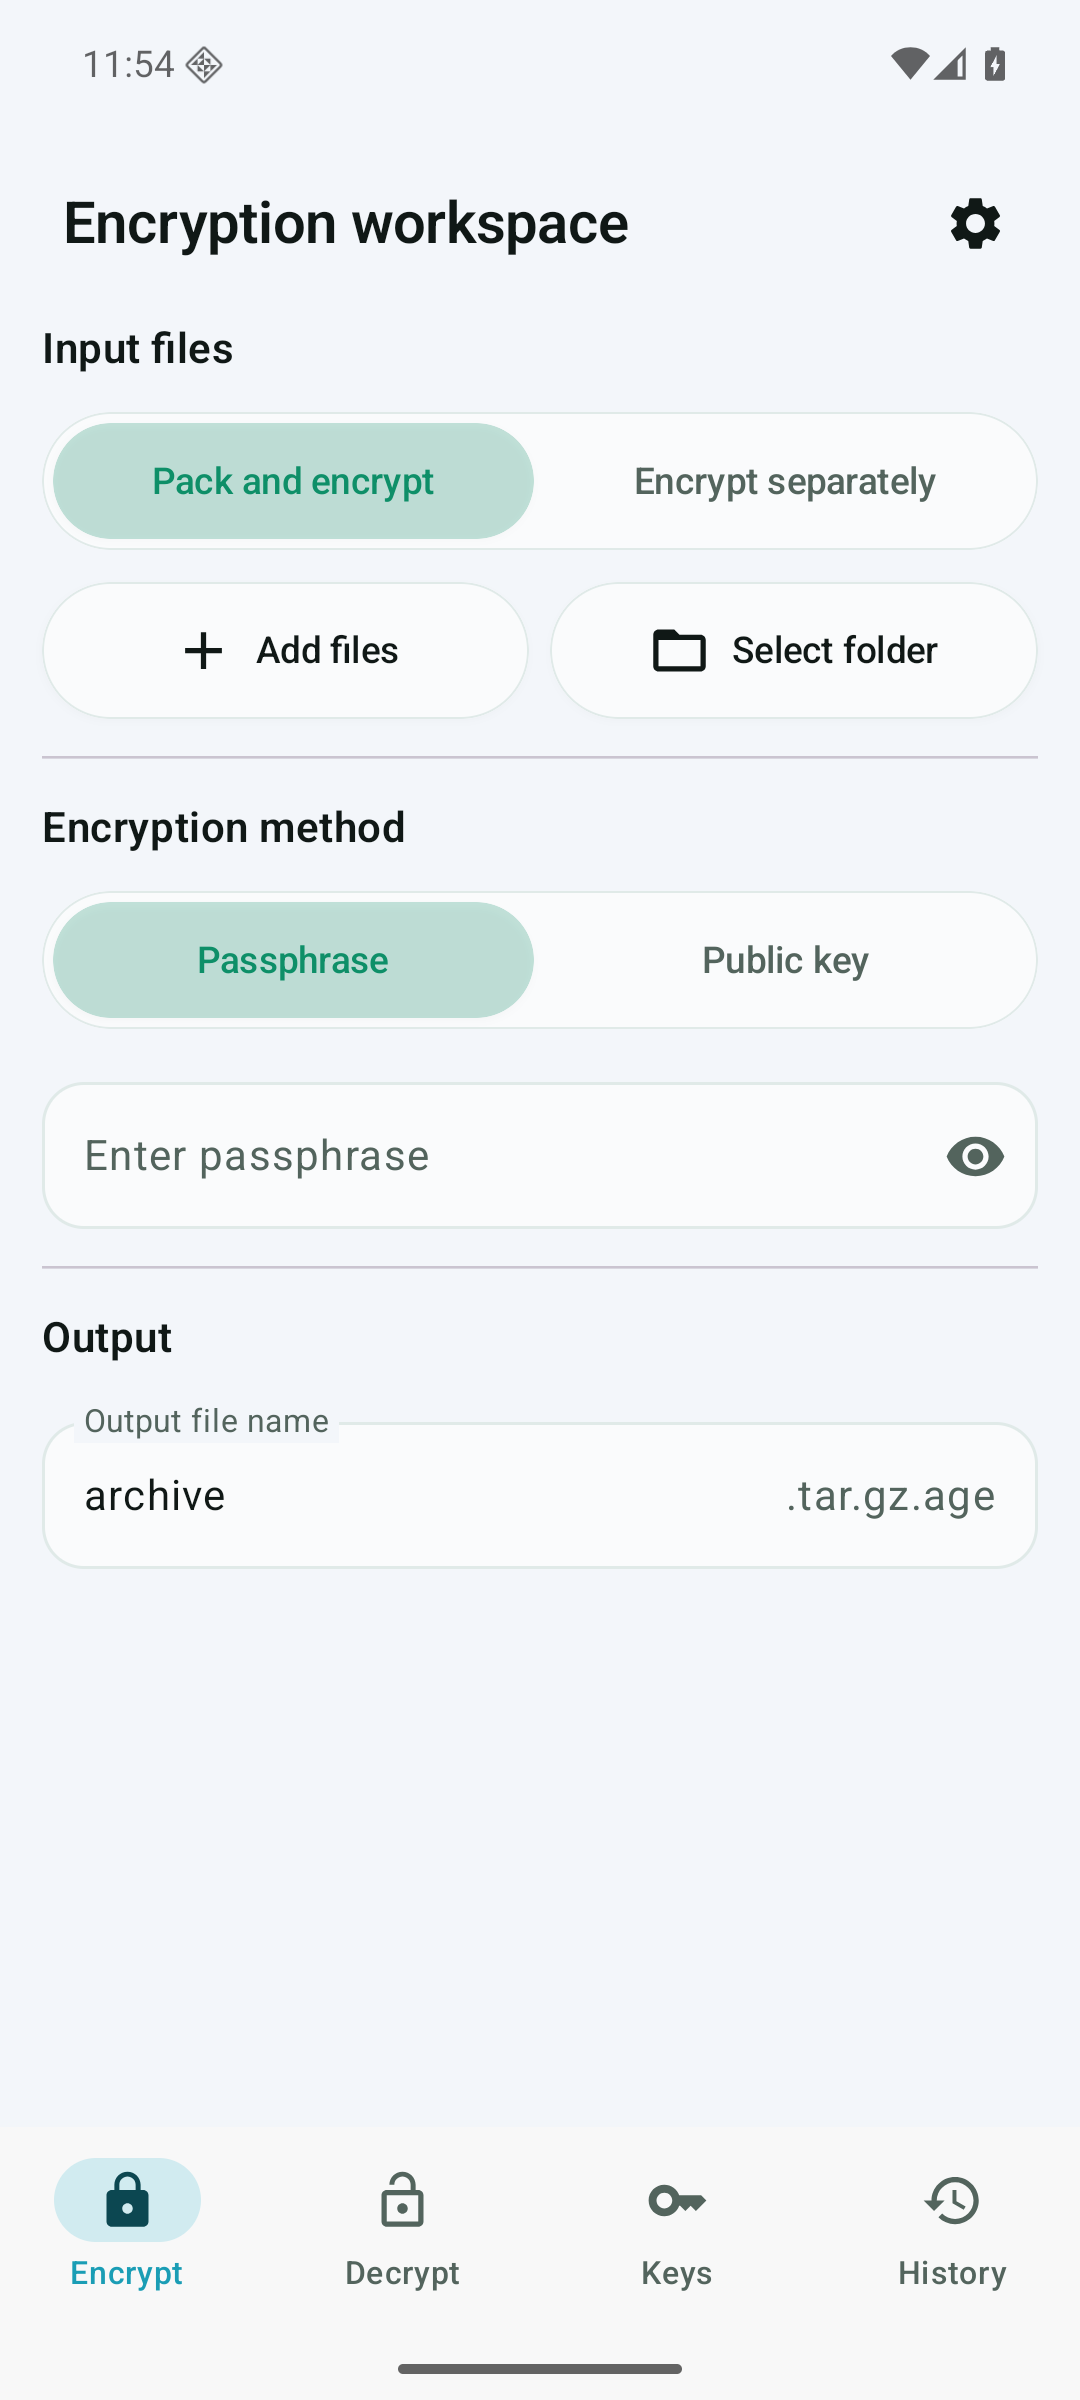
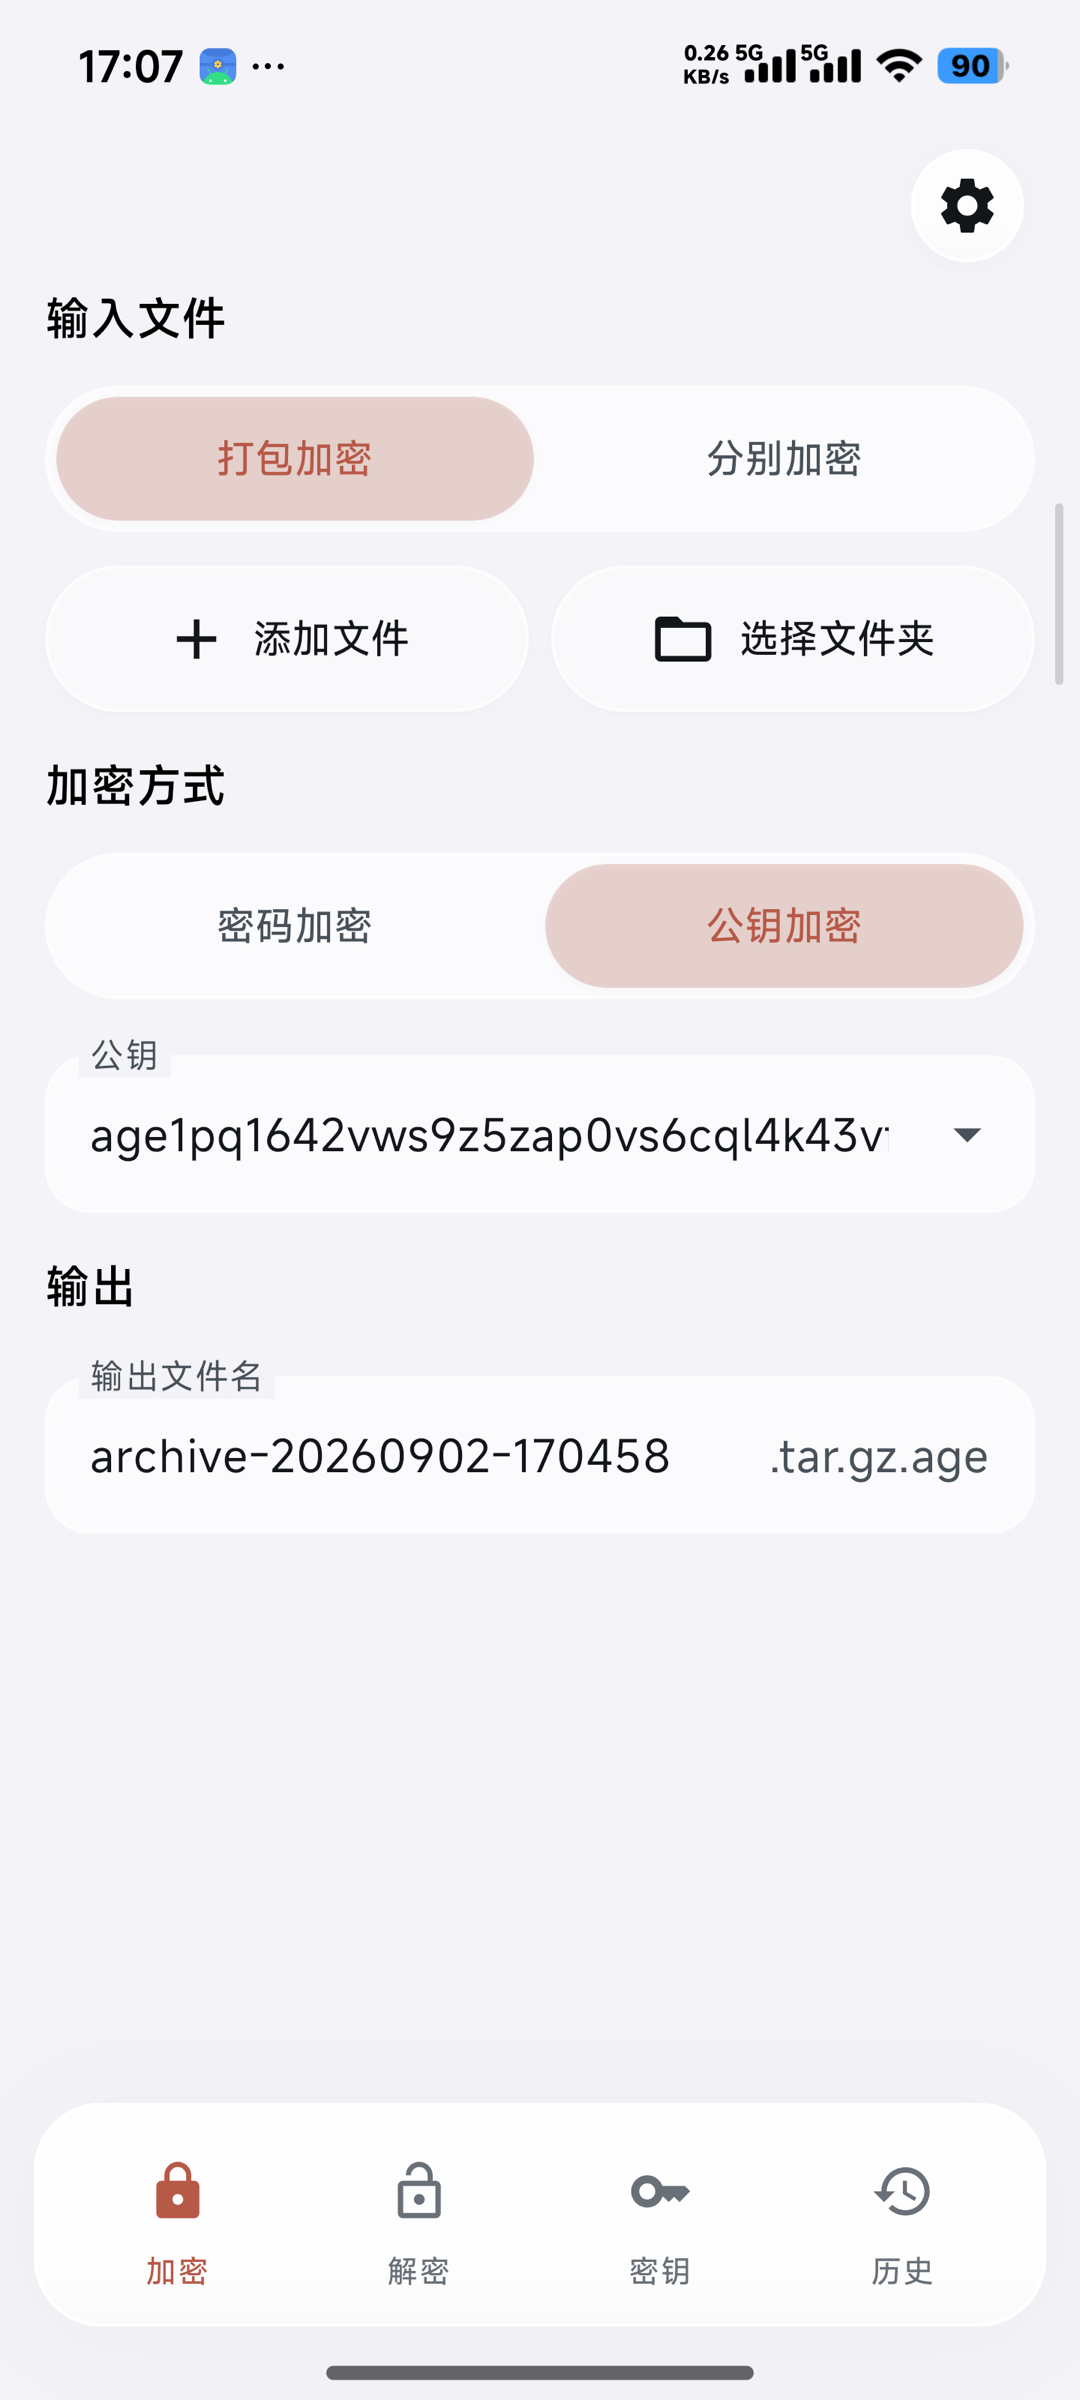
release: prepare 5.0.2

diff --git a/pages/index.html b/pages/index.html
@@ -1015,7 +1015,7 @@ See LICENSE for details.
           <button class="language-button" type="button" data-lang="en" aria-pressed="true">EN</button>
           <button class="language-button" type="button" data-lang="zh" aria-pressed="false">中文</button>
         </div>
-        <a class="button primary" href="https://github.com/vikiea/age_android/releases/download/v5.0.1/app-universal-release.apk" data-i18n="nav.primary">Download APK</a>
+        <a class="button primary" href="https://github.com/vikiea/age_android/releases/download/v5.0.2/app-universal-release.apk" data-i18n="nav.primary">Download APK</a>
       </div>
     </div>
   </header>
@@ -1024,16 +1024,16 @@ See LICENSE for details.
     <section class="hero" aria-labelledby="hero-title">
       <div class="hero-inner">
         <div class="hero-copy">
-          <p class="eyebrow"><span class="status-dot" aria-hidden="true">&nbsp;</span><span data-i18n="hero.eyebrow">Latest public release v5.0.1</span></p>
+          <p class="eyebrow"><span class="status-dot" aria-hidden="true">&nbsp;</span><span data-i18n="hero.eyebrow">Latest public release v5.0.2</span></p>
           <h1 id="hero-title" data-i18n="hero.title">Local-first age encryption for Android.</h1>
           <p class="hero-lede" data-i18n="hero.lede">Encrypt folders as visible tree units, decrypt archives back into their original structure, manage age keys, and keep every file operation on your Android device.</p>
           <div class="hero-actions">
-            <a class="button green" href="https://github.com/vikiea/age_android/releases/download/v5.0.1/app-universal-release.apk" data-i18n="hero.download">Download Universal APK</a>
+            <a class="button green" href="https://github.com/vikiea/age_android/releases/download/v5.0.2/app-universal-release.apk" data-i18n="hero.download">Download Universal APK</a>
             <a class="button secondary" href="#screenshots" data-i18n="hero.secondary">View the app</a>
           </div>
           <div class="hero-meta" aria-label="Highlights">
             <div class="meta-card">
-              <strong>v5.0.1</strong>
+              <strong>v5.0.2</strong>
               <span data-i18n="hero.meta.release">Current release</span>
             </div>
             <div class="meta-card">
@@ -1207,23 +1207,23 @@ See LICENSE for details.
           <p data-i18n="download.body">Universal is the easiest choice for most users. ABI-specific builds are smaller and match the device architecture directly.</p>
         </div>
         <div class="download-list">
-          <a class="download-option" href="https://github.com/vikiea/age_android/releases/download/v5.0.1/app-universal-release.apk">
+          <a class="download-option" href="https://github.com/vikiea/age_android/releases/download/v5.0.2/app-universal-release.apk">
             <strong data-i18n="download.universal">Universal APK</strong>
-            <span class="artifact-meta" title="SHA-256 8f5f8994578a2c440a4d2e97844bb234ee60737aec2e3510332b5c0dd1ee36f0">16.5 MiB · SHA-256 8f5f…36f0</span>
+            <span class="artifact-meta" title="SHA-256 0b0bc6c34c6812e1ba54246e3b7620f8b74eb48b7cb200a604868193fde42e23">16.4 MiB · SHA-256 0b0b…2e23</span>
           </a>
-          <a class="download-option" href="https://github.com/vikiea/age_android/releases/download/v5.0.1/app-arm64-v8a-release.apk">
+          <a class="download-option" href="https://github.com/vikiea/age_android/releases/download/v5.0.2/app-arm64-v8a-release.apk">
             <strong data-i18n="download.arm64">arm64-v8a APK</strong>
-            <span class="artifact-meta" title="SHA-256 8c24b5ef969bb1bfd1a3af8097d159ea32f5552268f414e41246cc320311b65b">6.3 MiB · SHA-256 8c24…b65b</span>
+            <span class="artifact-meta" title="SHA-256 f30b51f5fa9ce2c3643dc5e79c4a604f116aef2685e3025c00b855a617df1502">6.2 MiB · SHA-256 f30b…1502</span>
           </a>
-          <a class="download-option" href="https://github.com/vikiea/age_android/releases/download/v5.0.1/app-armeabi-v7a-release.apk">
+          <a class="download-option" href="https://github.com/vikiea/age_android/releases/download/v5.0.2/app-armeabi-v7a-release.apk">
             <strong data-i18n="download.armv7">armeabi-v7a APK</strong>
-            <span class="artifact-meta" title="SHA-256 5719553a081ba8f8ba7b4d1ce28dd2a38f43f976d0137bc4ee09f4c79adcb6f8">6.4 MiB · SHA-256 5719…b6f8</span>
+            <span class="artifact-meta" title="SHA-256 6ceae25945976fad552ec5f770e3af7470616784c0fb46870f98eb96e13990bd">6.3 MiB · SHA-256 6cea…90bd</span>
           </a>
-          <a class="download-option" href="https://github.com/vikiea/age_android/releases/download/v5.0.1/app-x86_64-release.apk">
+          <a class="download-option" href="https://github.com/vikiea/age_android/releases/download/v5.0.2/app-x86_64-release.apk">
             <strong data-i18n="download.x86">x86_64 APK</strong>
-            <span class="artifact-meta" title="SHA-256 df2cc88208079dc1a7407696c884b9a7e3408fd42ed789e81dda193e1829c7e3">6.6 MiB · SHA-256 df2c…9c7e</span>
+            <span class="artifact-meta" title="SHA-256 b8adee460df53c6205ff845f8c03bb72354ab9aeea99de4ae00842f94849746f">6.5 MiB · SHA-256 b8ad…46f</span>
           </a>
-          <a class="text-link" href="https://github.com/vikiea/age_android/releases/tag/v5.0.1" data-i18n="download.release">Open release notes</a>
+          <a class="text-link" href="https://github.com/vikiea/age_android/releases/tag/v5.0.2" data-i18n="download.release">Open release notes</a>
         </div>
       </div>
     </section>
@@ -1241,7 +1241,7 @@ See LICENSE for details.
       </div>
       <div class="footer-links">
         <a class="text-link" href="https://github.com/vikiea/age_android/blob/main/LICENSE">MIT License</a>
-        <a class="text-link" href="https://github.com/vikiea/age_android/releases/tag/v5.0.1" data-i18n="footer.release">Latest release</a>
+        <a class="text-link" href="https://github.com/vikiea/age_android/releases/tag/v5.0.2" data-i18n="footer.release">Latest release</a>
       </div>
     </div>
   </footer>
@@ -1260,7 +1260,7 @@ See LICENSE for details.
           primary: "Download APK"
         },
         hero: {
-          eyebrow: "Latest public release v5.0.1",
+          eyebrow: "Latest public release v5.0.2",
           title: "Local-first age encryption for Android.",
           lede: "Encrypt with post-quantum keys or passphrases, cancel long-running work safely, and keep every file operation on your Android device.",
           download: "Download Universal APK",
@@ -1373,7 +1373,7 @@ See LICENSE for details.
           primary: "下载 APK"
         },
         hero: {
-          eyebrow: "最新公开版本 v5.0.1",
+          eyebrow: "最新公开版本 v5.0.2",
           title: "Android 上的本地优先 age 加密。",
           lede: "使用后量子密钥或口令加密，安全取消长任务，并让每一次文件处理都留在你的 Android 设备本地。",
           download: "下载 Universal APK",

diff --git a/docs/RELEASE_NOTES_v5.0.2.md b/docs/RELEASE_NOTES_v5.0.2.md
@@ -1,0 +1,29 @@
+# Age Android v5.0.2
+
+This release refines the v5 interface, fixes language switching, and improves the default encryption workflow.
+
+## Changed
+
+- Redesign the phone interface with opaque content transitions, frosted Backdrop surfaces, compact icon-only top bars, and a theme-aware bottom navigation bar.
+- Replace system dynamic color and the glass toggle with a consistent fixed-accent frosted-glass presentation.
+- Default encryption and decryption to age keys instead of passphrases.
+- Add a local timestamp to the default packed archive name, such as `archive-20260902-153012`.
+- Use Android Gradle Plugin's built-in Kotlin support.
+
+## Fixed
+
+- Switch between English, Simplified Chinese, and the system language without recreating the activity or flashing a black frame.
+- Clear the legacy framework locale override once during upgrade, then leave locale state untouched on later launches.
+- Show key import failures and other notices as styled in-app surfaces without repeating a dialog error after the dialog closes.
+- Make key import and generation actions more compact and align their dialogs with the current visual system.
+
+## Downloads
+
+Use the Universal APK unless you specifically need a smaller ABI build.
+
+| Asset | Size | SHA-256 |
+| --- | ---: | --- |
[4 lines of base64/hex data omitted]

diff --git a/README.md b/README.md
@@ -16,7 +16,7 @@ Android native app wrapping the [age](https://filippo.io/age) encryption tool wi
 - **Protected sensitive actions**: Revealing, copying, or exporting a private key requires strong biometrics or device credentials
 - **Cancellable work**: Tar, gzip, encryption, decryption, SAF copies, and output writes can be cancelled with partial-output cleanup
 - **Bilingual UI**: Follow the system language or choose English / Simplified Chinese in Settings
-- **Adaptive Material 3 UI**: Bottom navigation on phones, navigation rail on wider windows, dynamic color, and restrained Backdrop glass for navigation and overlays
+- **Adaptive Material 3 UI**: Frosted Backdrop surfaces on phones, navigation rail on wider windows, fixed theme accents, and opaque content transitions
 - **Detailed history**: Track authentication type, safe key hints, compression, duplicate policy, concurrency, success/failure, and cancellation
 - **Verified updates**: Select an ABI APK with Universal fallback, verify its GitHub SHA-256 digest and signing certificate, then hand off to Android's installer
 
@@ -52,7 +52,7 @@ Android native app wrapping the [age](https://filippo.io/age) encryption tool wi
 
 | Layer | Technology |
 |-------|-----------|
-| App version | 5.0.1 (`versionCode` 16) |
+| App version | 5.0.2 (`versionCode` 17) |
 | Language | Kotlin 2.4.10, Go 1.25 |
 | Android | compileSdk 37, minSdk 26, targetSdk 36 |
 | UI | Jetpack Compose BOM 2026.08.00, Material 3 1.4.0, Backdrop 2.0.1 |
